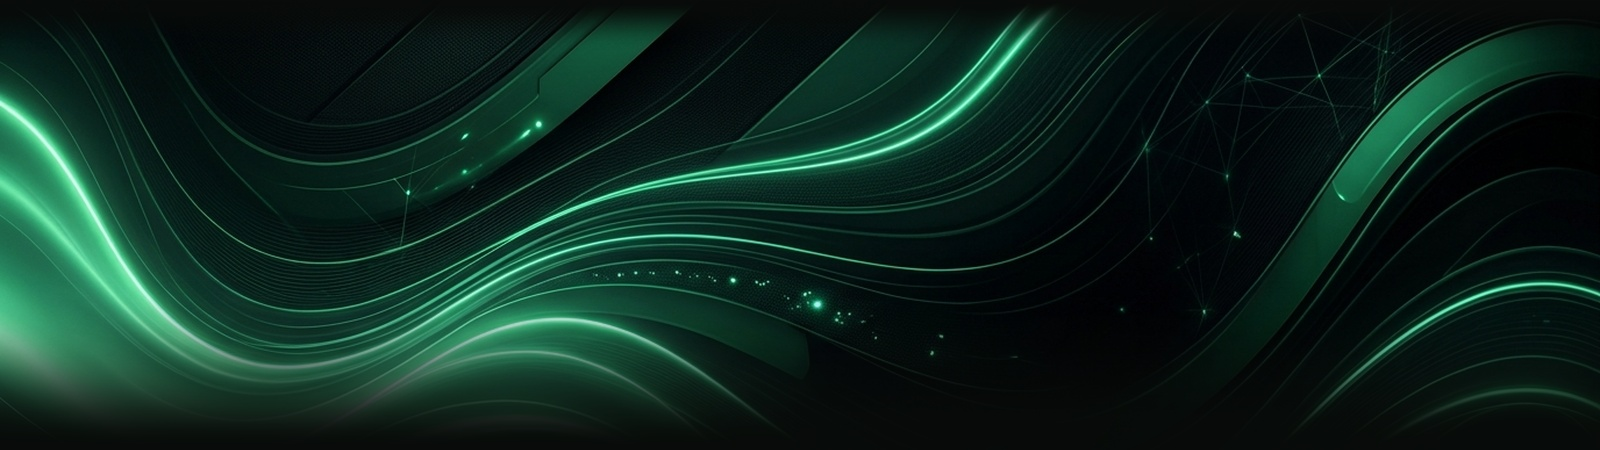
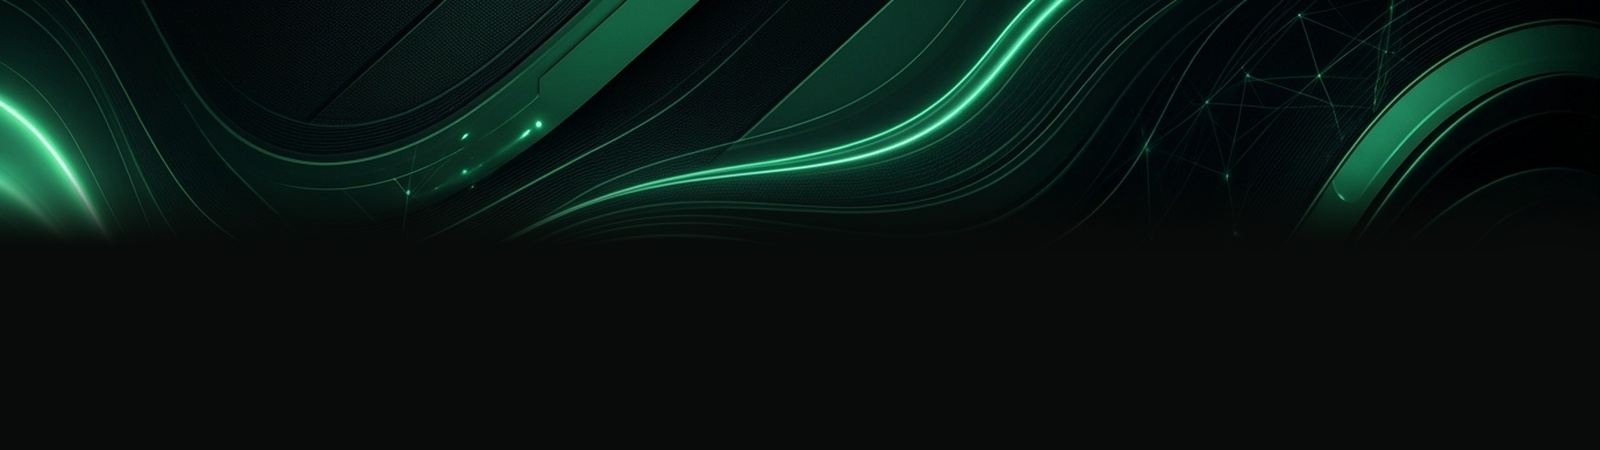
fix: update logistics image, revert testimonial bg, eliminate CTA bottom cut, and remove pages button from nav

diff --git a/b2bizz-reconstruction/src/components/layout/Navbar.tsx b/b2bizz-reconstruction/src/components/layout/Navbar.tsx
@@ -5,7 +5,7 @@ import Link from "next/link";
 import Image from "next/image";
 import { usePathname } from "next/navigation";
 import { motion, AnimatePresence } from "motion/react";
-import { ChevronDown, Menu, X, ArrowRight, ArrowUpRight } from "lucide-react";
+import { Menu, X, ArrowRight } from "lucide-react";
 import { NAVIGATION_DATA, NavItem } from "@/data/navigation";
 import { Button } from "@/components/ui/Button";
 import { cn } from "@/lib/utils";
@@ -13,7 +13,6 @@ import { cn } from "@/lib/utils";
 export const Navbar: React.FC = () => {
   const pathname = usePathname();
   const [isScrolled, setIsScrolled] = useState(false);
-  const [isDropdownOpen, setIsDropdownOpen] = useState(false);
   const [isMobileMenuOpen, setIsMobileMenuOpen] = useState(false);
 
   useEffect(() => {
@@ -27,7 +26,6 @@ export const Navbar: React.FC = () => {
   // Close mobile drawer on route change
   useEffect(() => {
     setIsMobileMenuOpen(false);
-    setIsDropdownOpen(false);
   }, [pathname]);
 
   return (
@@ -86,74 +84,6 @@ export const Navbar: React.FC = () => {
                 </Link>
               );
             })}
-
-            {/* Pages Mega Dropdown Trigger */}
-            <div
-              className="relative"
-              onMouseEnter={() => setIsDropdownOpen(true)}
-              onMouseLeave={() => setIsDropdownOpen(false)}
-            >
-              <button
-                className={cn(
-                  "flex items-center gap-1 px-2.5 xl:px-4 py-1.5 text-xs xl:text-sm font-medium rounded-full whitespace-nowrap transition-colors duration-200",
-                  isDropdownOpen
-                    ? "text-brand-volt bg-brand-volt/10 dark:bg-border-olive/50 font-semibold"
-                    : "text-text-secondary hover:text-brand-volt hover:bg-surface-subtle"
-                )}
-                aria-expanded={isDropdownOpen}
-              >
-                <span>Pages</span>
-                <ChevronDown
-                  className={cn(
-                    "w-3.5 h-3.5 transition-transform duration-200",
-                    isDropdownOpen && "rotate-180"
-                  )}
-                />
-              </button>
-
-              {/* Dropdown Menu Overlay */}
-              <AnimatePresence>
-                {isDropdownOpen && (
-                  <motion.div
-                    initial={{ opacity: 0, y: 10, scale: 0.96 }}
-                    animate={{ opacity: 1, y: 0, scale: 1 }}
-                    exit={{ opacity: 0, y: 8, scale: 0.96 }}
-                    transition={{ duration: 0.2, ease: [0.16, 1, 0.3, 1] }}
-                    className="absolute top-full right-0 mt-3 w-80 p-2.5 rounded-2xl bg-surface-card/95 backdrop-blur-2xl border border-border-olive shadow-2xl z-50"
-                  >
-                    <div className="space-y-1">
-                      {NAVIGATION_DATA.dropdownLinks.map((item) => (
-                        <Link
-                          key={item.href}
-                          href={item.href}
-                          onClick={() => setIsDropdownOpen(false)}
-                          className="flex items-start justify-between p-2.5 rounded-xl transition-all duration-150 hover:bg-surface-subtle group"
-                        >
-                          <div className="space-y-0.5">
-                            <div className="flex items-center gap-2">
-                              <span className="text-sm font-medium text-text-primary group-hover:text-brand-volt transition-colors">
-                                {item.label}
-                              </span>
-                              {item.badge && (
-                                <span className="text-[10px] font-semibold px-2 py-0.5 rounded-full bg-border-olive text-brand-volt">
-                                  {item.badge}
-                                </span>
-                              )}
-                            </div>
-                            {item.description && (
-                              <p className="text-xs text-text-muted line-clamp-1">
-                                {item.description}
-                              </p>
-                            )}
-                          </div>
-                          <ArrowUpRight className="w-4 h-4 text-text-muted opacity-0 group-hover:opacity-100 group-hover:text-brand-volt transition-all" />
-                        </Link>
-                      ))}
-                    </div>
-                  </motion.div>
-                )}
-              </AnimatePresence>
-            </div>
           </nav>
 
           {/* Right Header Action Button */}

diff --git a/b2bizz-reconstruction/src/components/shared/CtaBanner.tsx b/b2bizz-reconstruction/src/components/shared/CtaBanner.tsx
@@ -21,11 +21,15 @@ export const CtaBanner: React.FC<CtaBannerProps> = ({ className }) => {
           fill
           priority
           className="object-cover object-top opacity-85 select-none transition-transform duration-700 ease-out hover:scale-105"
+          style={{
+            maskImage: "linear-gradient(to bottom, black 50%, rgba(0,0,0,0.8) 65%, transparent 88%)",
+            WebkitMaskImage: "linear-gradient(to bottom, black 50%, rgba(0,0,0,0.8) 65%, transparent 88%)",
+          }}
           sizes="(max-width: 1200px) 100vw, 1200px"
         />
 
         {/* Ambient Dark Scrims ensuring seamless obsidian integration and zero bottom artifacts */}
-        <div className="absolute inset-x-0 bottom-0 h-28 bg-gradient-to-t from-[#080B09] via-[#080B09]/90 to-transparent pointer-events-none z-[2]" />
+        <div className="absolute inset-x-0 bottom-0 h-36 bg-gradient-to-t from-[#080B09] via-[#080B09]/95 to-transparent pointer-events-none z-[2]" />
         <div className="absolute inset-x-0 top-0 h-16 bg-gradient-to-b from-[#080B09]/80 to-transparent pointer-events-none z-[2]" />
         <div className="absolute inset-y-0 inset-x-0 bg-gradient-to-r from-[#080B09]/85 via-transparent to-[#080B09]/85 pointer-events-none z-[2]" />
         <div className="absolute inset-0 bg-[radial-gradient(ellipse_at_center,_var(--tw-gradient-stops))] from-emerald-500/15 via-transparent to-transparent pointer-events-none z-[2]" />

diff --git a/b2bizz-reconstruction/src/data/home-data.ts b/b2bizz-reconstruction/src/data/home-data.ts
@@ -109,7 +109,7 @@ export const HOME_DATA = {
       id: "logistics",
       title: "Logistics & Supply Chain",
       category: "Workflow Synchronization",
-      imageSrc: "/images/img-snVr8e30vWzy.jpg",
+      imageSrc: "/images/esi-logistics.jpg",
     },
     {
       id: "financial-services",
@@ -156,7 +156,7 @@ export const HOME_DATA = {
     role: "Quality Analyst",
     company: "Enterprise Client",
     avatarSrc: "/images/avatar-michael-brown.jpg",
-    bgImageSrc: "/images/esi-enterprise-architecture.jpg",
+    bgImageSrc: "/images/img-XwCo50BibsVk.jpg",
   },
 
   testimonialsList: [
